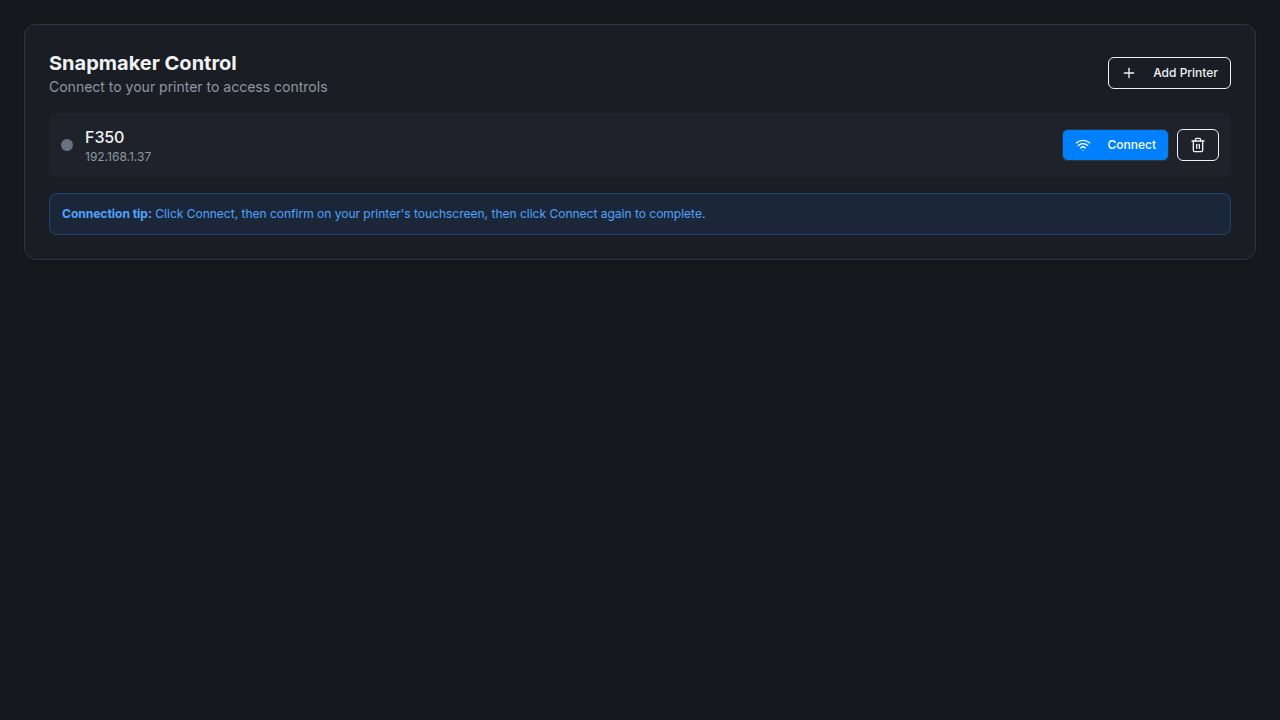
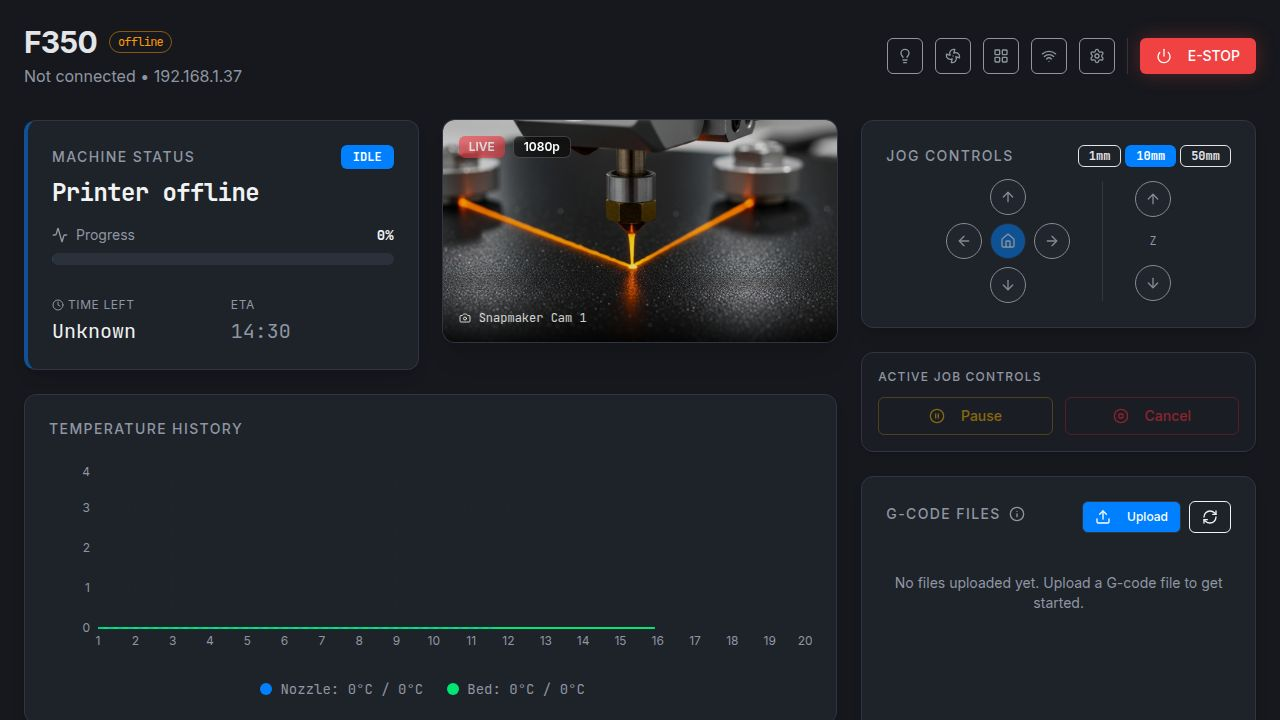
Allow access to dashboard even when no printer is connected
Update the dashboard to allow access when no printer is connected, and ensure all components correctly handle offline printer states by using `selectedPrinter` and `isConnected` flags.

Replit-Commit-Author: Agent
Replit-Commit-Session-Id: c6ee0c84-6001-41ff-9c01-c7c26c547972
Replit-Commit-Checkpoint-Type: intermediate_checkpoint
Replit-Commit-Event-Id: b790eb4d-1517-490d-bb7f-3f5ab6187041
Replit-Commit-Screenshot-Url: https://storage.googleapis.com/screenshot-production-us-central1/361edf00-8169-450a-8cfc-e69e4d878aa2/c6ee0c84-6001-41ff-9c01-c7c26c547972/IWOAN95
Replit-Helium-Checkpoint-Created: true

diff --git a/client/src/pages/Dashboard.tsx b/client/src/pages/Dashboard.tsx
@@ -126,12 +126,15 @@ export default function Dashboard() {
     refetchInterval: 5000,
   });
 
+  // Use connected printer if available, otherwise use first printer in list
   const activePrinter = printers.find((p) => p.isConnected);
+  const selectedPrinter = activePrinter || printers[0];
+  const isConnected = !!activePrinter;
   const disconnectedPrinter = printers.find((p) => !p.isConnected && p.token);
 
   const { data: preferencesData, isLoading: preferencesLoading } = useQuery<{ enabledModules: string[] }>({
-    queryKey: [`/api/printers/${activePrinter?.id}/dashboard-preferences`],
-    enabled: !!activePrinter,
+    queryKey: [`/api/printers/${selectedPrinter?.id}/dashboard-preferences`],
+    enabled: !!selectedPrinter,
     staleTime: Infinity,
   });
 
@@ -165,14 +168,14 @@ export default function Dashboard() {
   });
 
   const toggleModule = (moduleId: string) => {
-    if (!activePrinter) return;
+    if (!selectedPrinter) return;
     
     const newEnabledModules = enabledModules.includes(moduleId)
       ? enabledModules.filter((id) => id !== moduleId)
       : [...enabledModules, moduleId];
     
     updatePreferencesMutation.mutate({
-      printerId: activePrinter.id,
+      printerId: selectedPrinter.id,
       enabledModules: newEnabledModules,
     });
   };
@@ -416,17 +419,17 @@ export default function Dashboard() {
   };
 
   const renderModule = (moduleId: string) => {
-    if (!activePrinter || !enabledModules.includes(moduleId)) return null;
+    if (!selectedPrinter || !enabledModules.includes(moduleId)) return null;
 
     switch (moduleId) {
       case "status":
         return (
           <PrinterStatus 
             key={moduleId}
-            status={mapStatus(status?.state || "idle")} 
+            status={isConnected ? mapStatus(status?.state || "idle") : "idle"} 
             progress={status?.progress || 0} 
             timeLeft={formatTimeRemaining(status?.timeRemaining || null)} 
-            filename={status?.currentFile || "No active job"} 
+            filename={status?.currentFile || (isConnected ? "No active job" : "Printer offline")} 
           />
         );
       case "webcam":
@@ -435,14 +438,14 @@ export default function Dashboard() {
         return (
           <TemperatureChart 
             key={moduleId}
-            nozzleTemp={status?.temperature.nozzle || 0}
-            bedTemp={status?.temperature.bed || 0}
-            targetNozzle={status?.temperature.targetNozzle || 0}
-            targetBed={status?.temperature.targetBed || 0}
+            nozzleTemp={status?.temperature?.nozzle || 0}
+            bedTemp={status?.temperature?.bed || 0}
+            targetNozzle={status?.temperature?.targetNozzle || 0}
+            targetBed={status?.temperature?.targetBed || 0}
           />
         );
       case "jogControls":
-        return <JogControls key={moduleId} printerId={activePrinter.id} />;
+        return <JogControls key={moduleId} printerId={selectedPrinter.id} disabled={!isConnected} />;
       case "jobControls":
         return (
           <Card key={moduleId} className="p-4 bg-secondary/20 border-border">
@@ -452,6 +455,7 @@ export default function Dashboard() {
                 variant="outline"
                 className="w-full border-yellow-500/50 hover:bg-yellow-500/10 hover:text-yellow-500 text-yellow-500"
                 data-testid="button-pause"
+                disabled={!isConnected}
               >
                 <PauseCircle className="h-4 w-4 mr-2" /> Pause
               </Button>
@@ -459,6 +463,7 @@ export default function Dashboard() {
                 variant="outline"
                 className="w-full border-red-500/50 hover:bg-red-500/10 hover:text-red-500 text-red-500"
                 data-testid="button-cancel"
+                disabled={!isConnected}
               >
                 <StopCircle className="h-4 w-4 mr-2" /> Cancel
               </Button>
@@ -466,7 +471,7 @@ export default function Dashboard() {
           </Card>
         );
       case "fileList":
-        return <FileList key={moduleId} printerId={activePrinter.id} />;
+        return <FileList key={moduleId} printerId={selectedPrinter.id} />;
       default:
         return null;
     }
@@ -497,135 +502,42 @@ export default function Dashboard() {
       )}
       <div className="max-w-7xl mx-auto space-y-6">
         
-        {/* Printer Connection Section - Always at top */}
-        {!activePrinter && (
+        {/* Printer Connection Section - Show when no printers exist */}
+        {printers.length === 0 && (
           <Card className="p-6 bg-secondary/20 border-border">
             <div className="flex items-center justify-between mb-4">
               <div>
                 <h2 className="text-xl font-bold">Snapmaker Control</h2>
                 <p className="text-sm text-muted-foreground">
-                  {printers.length === 0 
-                    ? "Add your printer to get started" 
-                    : "Connect to your printer to access controls"}
+                  Add your printer to get started
                 </p>
               </div>
-              {printers.length > 0 && !showAddForm && (
-                <Button
-                  variant="outline"
-                  size="sm"
-                  onClick={() => setShowAddForm(true)}
-                  data-testid="button-show-add-form"
-                >
-                  <Plus className="h-4 w-4 mr-2" />
-                  Add Printer
-                </Button>
-              )}
             </div>
 
             {/* Add Printer Form */}
-            {(printers.length === 0 || showAddForm) && (
-              <AddPrinterForm
-                onAdd={handleAddPrinter}
-                onCancel={handleCancelAddForm}
-                isPending={addPrinterMutation.isPending}
-                showCancel={showAddForm}
-              />
-            )}
-
-            {/* Printer List */}
-            {printers.length > 0 && (
-              <div className="space-y-2">
-                {printers.map((printer) => (
-                  <div
-                    key={printer.id}
-                    className="flex items-center justify-between p-3 bg-secondary/30 rounded-lg"
-                    data-testid={`card-printer-${printer.id}`}
-                  >
-                    <div className="flex items-center gap-3">
-                      <div
-                        className={`h-3 w-3 rounded-full ${
-                          printer.isConnected ? "bg-green-500" : "bg-gray-500"
-                        }`}
-                        data-testid={`status-connection-${printer.id}`}
-                      />
-                      <div>
-                        <p className="font-medium" data-testid={`text-printer-name-${printer.id}`}>
-                          {printer.name}
-                        </p>
-                        <p className="text-xs text-muted-foreground" data-testid={`text-printer-ip-${printer.id}`}>
-                          {printer.ipAddress}
-                          {disconnectedPrinter?.id === printer.id && autoReconnecting && (
-                            <span className="ml-2 inline-flex items-center gap-1">
-                              <RefreshCw className="h-3 w-3 animate-spin" />
-                              Reconnecting...
-                            </span>
-                          )}
-                        </p>
-                      </div>
-                    </div>
-                    <div className="flex gap-2">
-                      {printer.isConnected ? (
-                        <Button
-                          variant="outline"
-                          size="sm"
-                          onClick={() => disconnectMutation.mutate(printer.id)}
-                          disabled={disconnectMutation.isPending}
-                          data-testid={`button-disconnect-${printer.id}`}
-                        >
-                          <WifiOff className="h-4 w-4 mr-2" />
-                          Disconnect
-                        </Button>
-                      ) : (
-                        <Button
-                          size="sm"
-                          onClick={() => connectMutation.mutate(printer.id)}
-                          disabled={connectMutation.isPending}
-                          data-testid={`button-connect-${printer.id}`}
-                        >
-                          <Wifi className="h-4 w-4 mr-2" />
-                          Connect
-                        </Button>
-                      )}
-                      <Button
-                        variant="outline"
-                        size="sm"
-                        onClick={() => deletePrinterMutation.mutate(printer.id)}
-                        disabled={deletePrinterMutation.isPending}
-                        data-testid={`button-delete-${printer.id}`}
-                      >
-                        <Trash2 className="h-4 w-4" />
-                      </Button>
-                    </div>
-                  </div>
-                ))}
-              </div>
-            )}
-
-            {/* Connection Instructions */}
-            {printers.length > 0 && (
-              <div className="mt-4 p-3 bg-blue-500/10 border border-blue-500/30 rounded-lg">
-                <p className="text-xs text-blue-400">
-                  <strong>Connection tip:</strong> Click Connect, then confirm on your printer's touchscreen, then click Connect again to complete.
-                </p>
-              </div>
-            )}
+            <AddPrinterForm
+              onAdd={handleAddPrinter}
+              onCancel={handleCancelAddForm}
+              isPending={addPrinterMutation.isPending}
+              showCancel={false}
+            />
           </Card>
         )}
 
-        {/* Connected Dashboard View */}
-        {activePrinter && (
+        {/* Dashboard View - Show when any printer is configured */}
+        {selectedPrinter && (
           <>
             {/* Header */}
             <header className="flex flex-col md:flex-row justify-between items-start md:items-center gap-4 mb-8">
               <div>
                 <h1 className="text-3xl font-bold tracking-tight text-foreground flex items-center gap-3">
-                  <span data-testid="text-printer-name">{activePrinter.name}</span>
-                  <span className="text-xs font-mono font-normal text-muted-foreground border px-2 py-0.5 rounded-full">
-                    {status?.state || "idle"}
+                  <span data-testid="text-printer-name">{selectedPrinter.name}</span>
+                  <span className={`text-xs font-mono font-normal border px-2 py-0.5 rounded-full ${isConnected ? 'text-muted-foreground' : 'text-amber-500 border-amber-500/50'}`}>
+                    {isConnected ? (status?.state || "idle") : "offline"}
                   </span>
                 </h1>
                 <p className="text-muted-foreground mt-1" data-testid="text-printer-ip">
-                  Connected via Wi-Fi • {activePrinter.ipAddress}
+                  {isConnected ? "Connected via Wi-Fi" : "Not connected"} • {selectedPrinter.ipAddress}
                 </p>
               </div>
               
@@ -687,16 +599,29 @@ export default function Dashboard() {
                     </div>
                   </SheetContent>
                 </Sheet>
-                <Button
-                  variant="outline"
-                  size="icon"
-                  className="text-muted-foreground hover:text-foreground"
-                  onClick={() => disconnectMutation.mutate(activePrinter.id)}
-                  disabled={disconnectMutation.isPending}
-                  data-testid="button-disconnect-header"
-                >
-                  <WifiOff className="h-4 w-4" />
-                </Button>
+                {isConnected ? (
+                  <Button
+                    variant="outline"
+                    size="icon"
+                    className="text-muted-foreground hover:text-foreground"
+                    onClick={() => disconnectMutation.mutate(selectedPrinter.id)}
+                    disabled={disconnectMutation.isPending}
+                    data-testid="button-disconnect-header"
+                  >
+                    <WifiOff className="h-4 w-4" />
+                  </Button>
+                ) : (
+                  <Button
+                    variant="outline"
+                    size="icon"
+                    className="text-muted-foreground hover:text-foreground"
+                    onClick={() => connectMutation.mutate(selectedPrinter.id)}
+                    disabled={connectMutation.isPending}
+                    data-testid="button-connect-header"
+                  >
+                    <Wifi className="h-4 w-4" />
+                  </Button>
+                )}
                 <Button
                   variant="outline"
                   size="icon"

diff --git a/client/src/components/JogControls.tsx b/client/src/components/JogControls.tsx
@@ -8,10 +8,12 @@ import { toast } from "sonner";
 
 interface JogControlsProps {
   printerId: number | null;
+  disabled?: boolean;
 }
 
-export default function JogControls({ printerId }: JogControlsProps) {
+export default function JogControls({ printerId, disabled = false }: JogControlsProps) {
   const [step, setStep] = useState(10);
+  const isOffline = disabled;
 
   const jogMutation = useMutation({
     mutationFn: async ({ axis, distance }: { axis: string; distance: number }) => {
@@ -63,7 +65,7 @@ export default function JogControls({ printerId }: JogControlsProps) {
   };
 
   const isLoading = jogMutation.isPending || homeMutation.isPending;
-  const isDisabled = !printerId;
+  const isDisabled = !printerId || isOffline;
 
   return (
     <Card className="shadow-lg">
